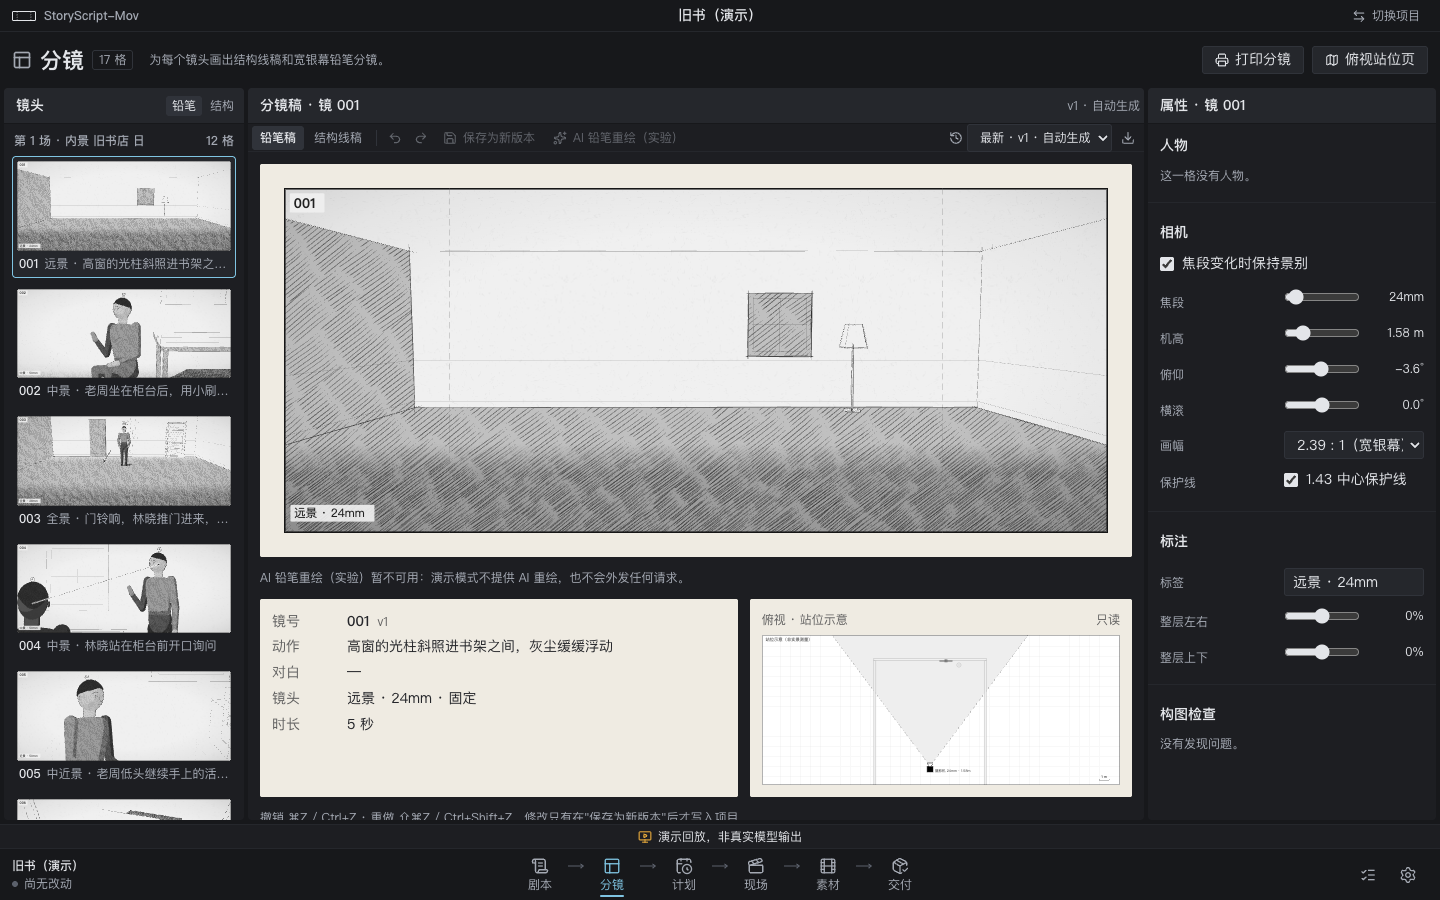
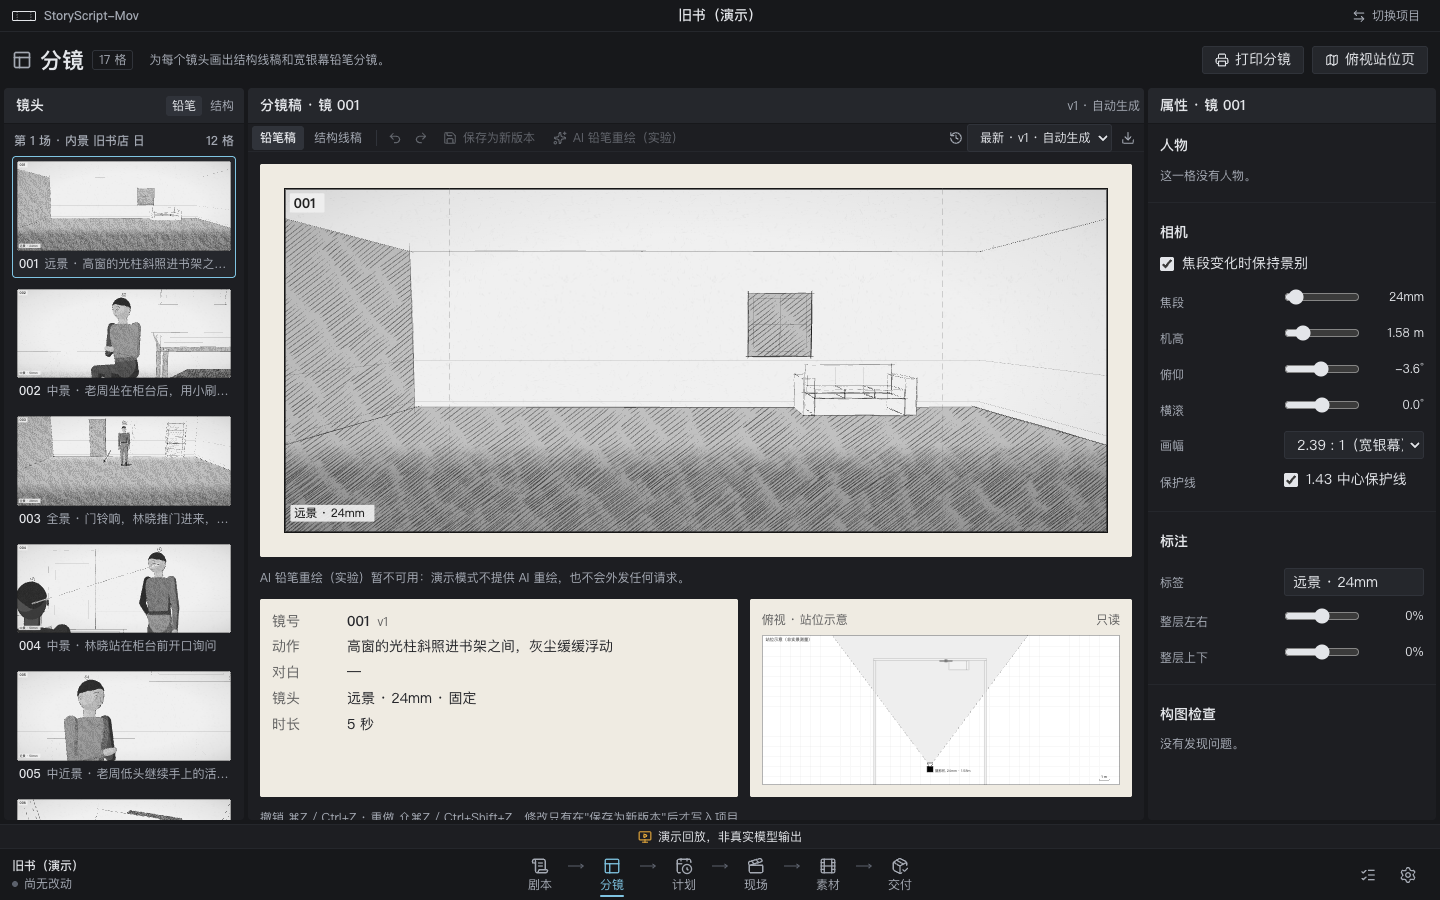
release: storyscript-mov 0.8.0 (S4c, S4c1)

diff --git a/README.md b/README.md
@@ -1,6 +1,6 @@
 # StoryScript-Mov
 
-![version](https://img.shields.io/badge/version-S4c-blue)
+![version](https://img.shields.io/badge/version-S4c1-blue)
 ![last commit](https://img.shields.io/github/last-commit/ChromiteCr/StoryScript-Mov)
 ![commit activity](https://img.shields.io/github/commit-activity/m/ChromiteCr/StoryScript-Mov)
 ![stars](https://img.shields.io/github/stars/ChromiteCr/StoryScript-Mov)
@@ -176,6 +176,7 @@ npm run readme:media  # 从演示项目重新生成 README 的截图和动图（
 
 | 版本 | 日期 | 变更内容 | 类型 |
 |------|------|----------|------|
+| S4c1 | 2026-10-06 | 发布前审查修复（npm 0.8.0，含 S4c）：躺着的人按身体中部排前后，画在床上但不再盖住更近的人；机位高过走廊天花板时不画天花板；室内列出的「树」画成墙内的盆栽；「冲着」「拿走」这类说法不再被当成人物移动；横穿画面的长线（桌面木纹、墙脚线）不再漏画；重排按钮在手机宽度下放得下 | fix |
 | S4c | 2026-10-06 | 分镜画面与镜头变化：人物有五官、发型和上下装（按角色固定），站坐走有手势变体，新增躺、跪、伸手、打电话；按环境自动布景（室内、教室、走廊、街道、野外），新增床、沙发、书架、灯、树、手机、杯子、书、包；单人镜头按视线放三分线；分镜页可用新画法重排旧分镜；AI 拆镜换用 breakdown-v3（镜头变化要求）并检查镜头是否单一，明显单一时在 3 次外发内再问一轮；润色新增「丰富变化」 | feat |
 | S4b1 | 2026-09-30 | 发布前审查修复（npm 0.7.0，含 S4、S4a、S4b）：删除账号时一并删除他自己的模型设置；组员用自己的图像服务时，任务报错和候选图不再向组员显示服务地址；镜头改动会同时刷新覆盖情况、计划和分镜过期标记，生成素材候选、上传海报也会让组员刷新；「保留我的」只保留自己改过的字段，其余跟随组员的修改；别人把讨论串标为已解决时，正在写的回复不会丢；已读只记到面板实际显示过的批注，改批注去掉的 @ 不再提醒，已归档镜头的提及不再留在铃铛里；复制出来的标签页各用自己的编号，换组长后新组长马上能改组的模型 | fix |
 | S4b | 2026-09-30 | 镜头批注：在镜头编辑器和分镜页检查器里讨论某个镜头（可针对某一版分镜，分「本版 / 全部」），一层回复；@组员或 @职务（@导演 会提到当时所有担任导演的人），标题栏铃铛列出提到我的批注、点一下直接打开那个镜头；镜头表每行显示批注数和未读点，每人各自记已读；讨论完可以标为已解决或重新打开；作者可以改、删自己的批注，组长可以删任何批注，删除后保留「已删除」占位，讨论串不断 | feat |
